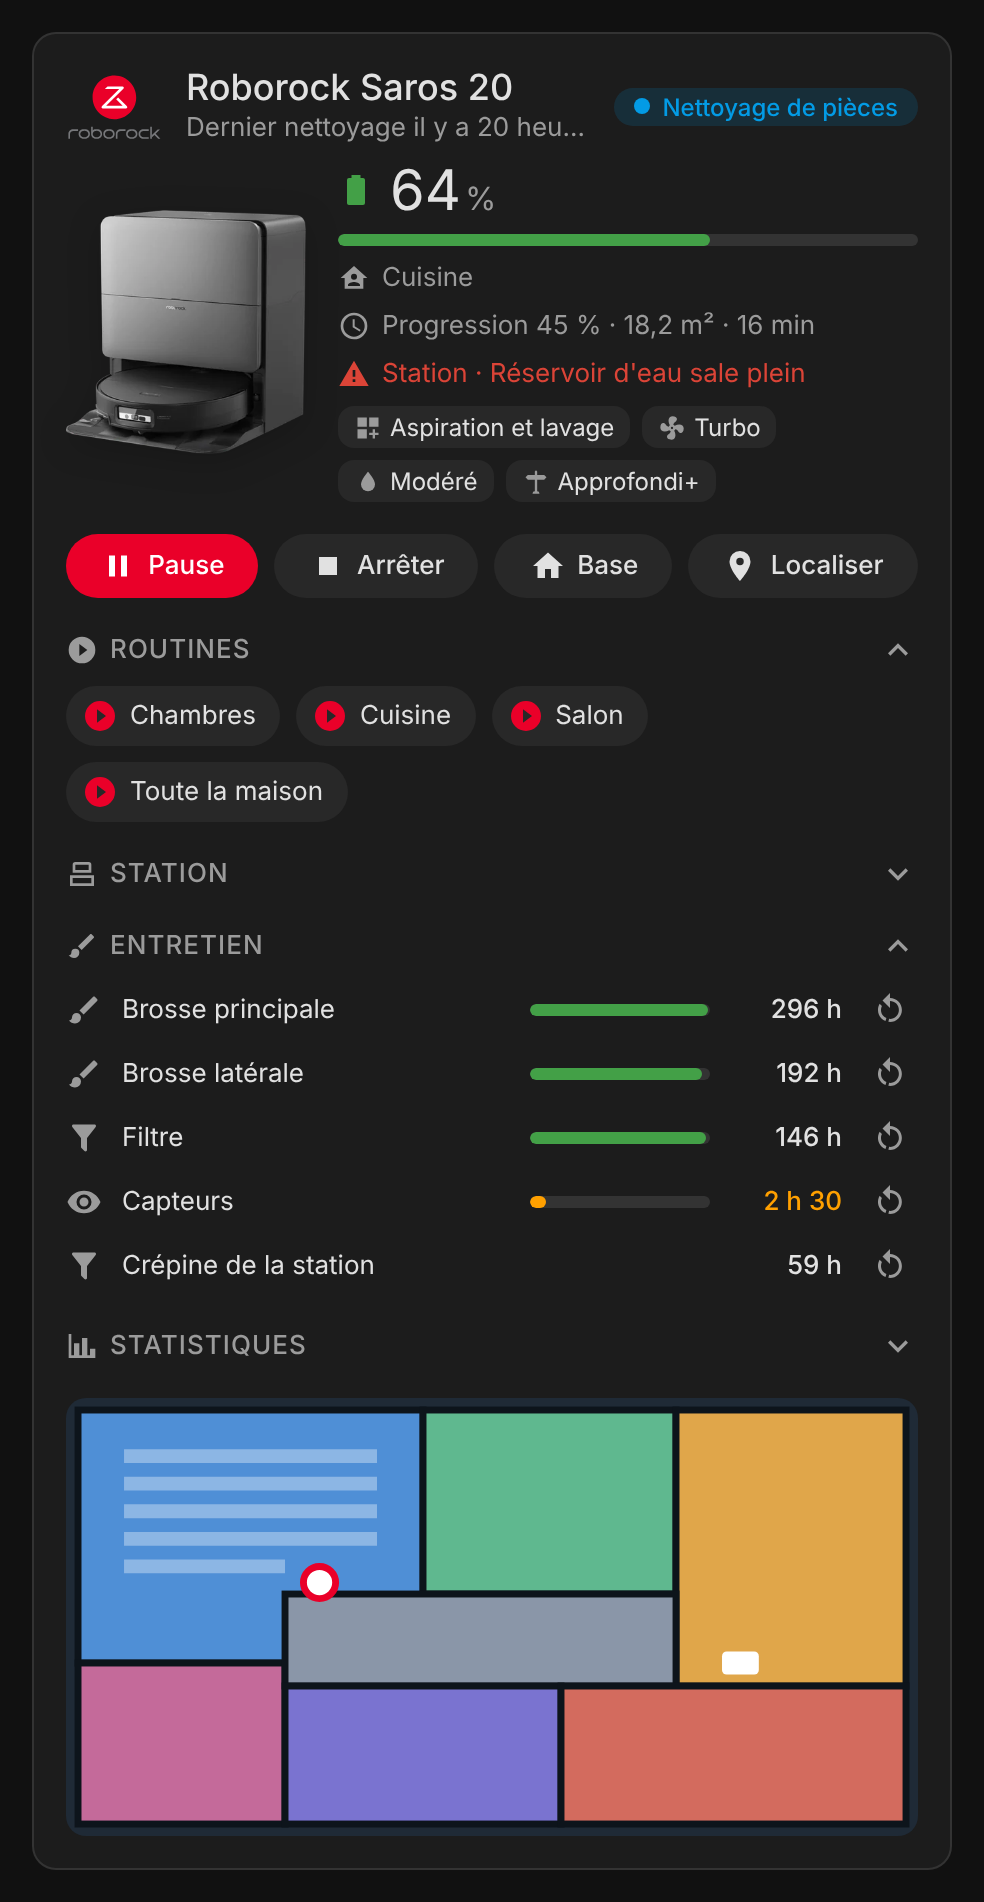
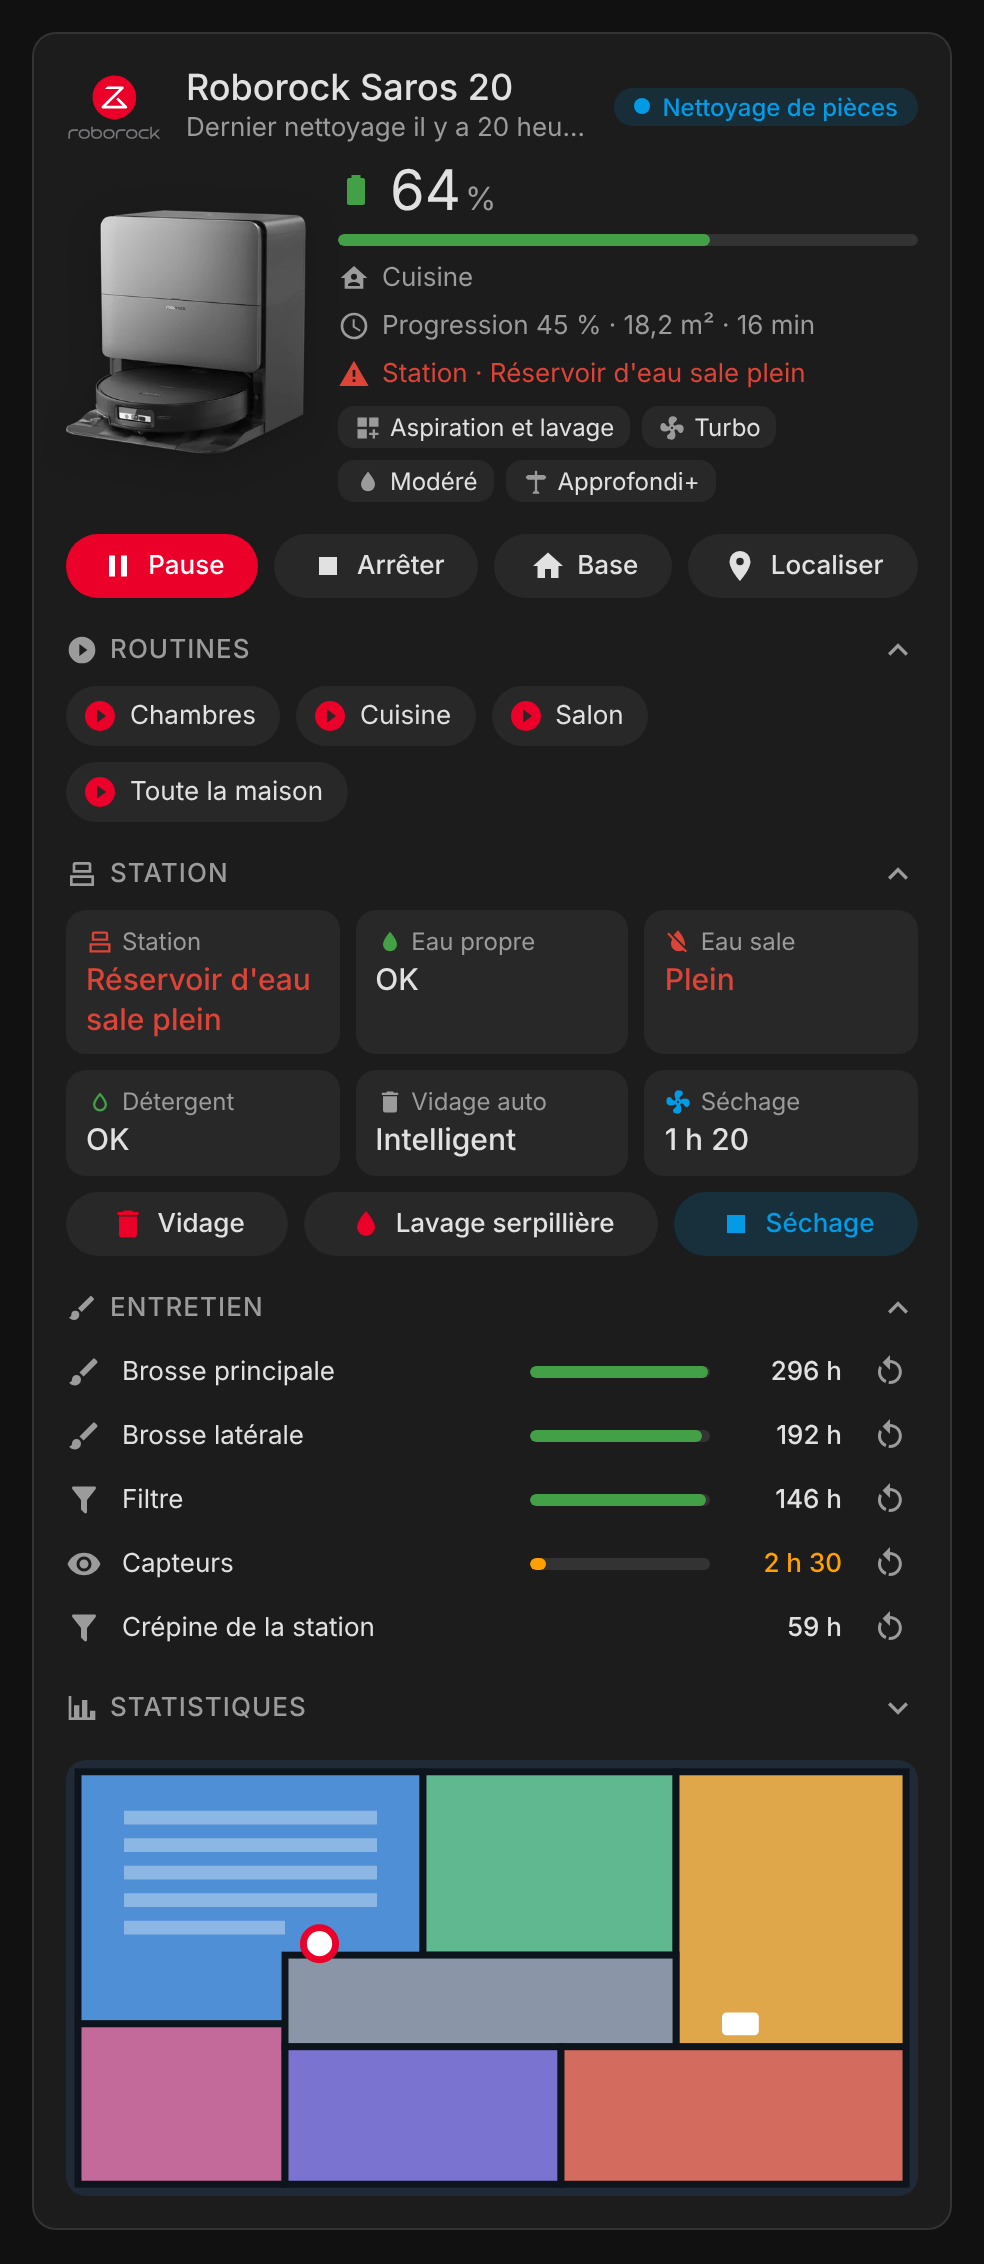
Unfold the dock section when the dock reports a problem
Claude-Session: https://claude.ai/code/session_01BR93mfbPRnuFtK94DdtmVn

diff --git a/dist/roborock-card.js b/dist/roborock-card.js
@@ -1066,6 +1066,8 @@ class RoborockCard extends RoborockBase {
   }
 
   _defaultCollapsed(key) {
+    // A dock reporting a problem is always shown unfolded (it can still be folded by hand).
+    if (key === "dock" && this._dev && this._dockProblem(this._dev)) return false;
     const c = this._config.collapsed ?? DEFAULT_COLLAPSED;
     return (Array.isArray(c) ? c : [c]).includes(key);
   }
@@ -1113,6 +1115,13 @@ class RoborockCard extends RoborockBase {
       ${this._sectionTitle("dock", ICONS.dock, this._t("station"))}
       ${this._isCollapsed("dock") ? "" : `${tiles.length ? `<div class="tiles">${tiles.join("")}</div>` : ""}${actions}`}
     </div>`;
+  }
+
+  _dockProblem(dev) {
+    const d = dev.dock;
+    const err = this._s(d.dock_error);
+    if (valid(err) && err.state !== "ok") return true;
+    return ["clean_box_empty", "dirty_box_full", "clean_fluid_empty"].some((k) => this._s(d[k])?.state === "on");
   }
 
   // Dock action switches of the integration: on while the action runs, the dock stops it on its own.

diff --git a/src/roborock-card.js b/src/roborock-card.js
@@ -1066,6 +1066,8 @@ class RoborockCard extends RoborockBase {
   }
 
   _defaultCollapsed(key) {
+    // A dock reporting a problem is always shown unfolded (it can still be folded by hand).
+    if (key === "dock" && this._dev && this._dockProblem(this._dev)) return false;
     const c = this._config.collapsed ?? DEFAULT_COLLAPSED;
     return (Array.isArray(c) ? c : [c]).includes(key);
   }
@@ -1113,6 +1115,13 @@ class RoborockCard extends RoborockBase {
       ${this._sectionTitle("dock", ICONS.dock, this._t("station"))}
       ${this._isCollapsed("dock") ? "" : `${tiles.length ? `<div class="tiles">${tiles.join("")}</div>` : ""}${actions}`}
     </div>`;
+  }
+
+  _dockProblem(dev) {
+    const d = dev.dock;
+    const err = this._s(d.dock_error);
+    if (valid(err) && err.state !== "ok") return true;
+    return ["clean_box_empty", "dirty_box_full", "clean_fluid_empty"].some((k) => this._s(d[k])?.state === "on");
   }
 
   // Dock action switches of the integration: on while the action runs, the dock stops it on its own.

diff --git a/README.md b/README.md
@@ -139,7 +139,7 @@ language: fr
 | `show_consumables` | full | `true` | Maintenance (remaining time of brushes, filter, sensors…) |
 | `show_stats` | full | `true` | Cleaning statistics |
 | `show_map` | full | `cleaning` | Map of the current floor: `cleaning` (only while the robot is cleaning), `always` (or `true`) or `never` (or `false`) |
-| `collapsed` | full | `[stats, dock]` | Sections folded by default, among `routines`, `dock`, `consumables` and `stats` (`[]` to unfold everything). Click a section title to fold or unfold it |
+| `collapsed` | full | `[stats, dock]` | Sections folded by default, among `routines`, `dock`, `consumables` and `stats` (`[]` to unfold everything). Click a section title to fold or unfold it. The dock section unfolds on its own when the dock reports a problem |
 | `crop` | full | — | Crop the map, in pixels of the map image: `top`, `bottom`, `left` and/or `right` (see below) |
 | `language` | both | Auto | Force language: `fr` or `en` (auto-detects from HA settings) |
 

diff --git a/CHANGELOG.md b/CHANGELOG.md
@@ -1,5 +1,11 @@
 # Changelog
 
+## Unreleased
+
+### ✨ Features
+
+- The Dock section unfolds on its own when the dock reports a problem (dock error, clean water tank empty, dirty water tank full, detergent empty), even when it is folded by default.
+
 ## 1.3.0
 
 ### ✨ Features
